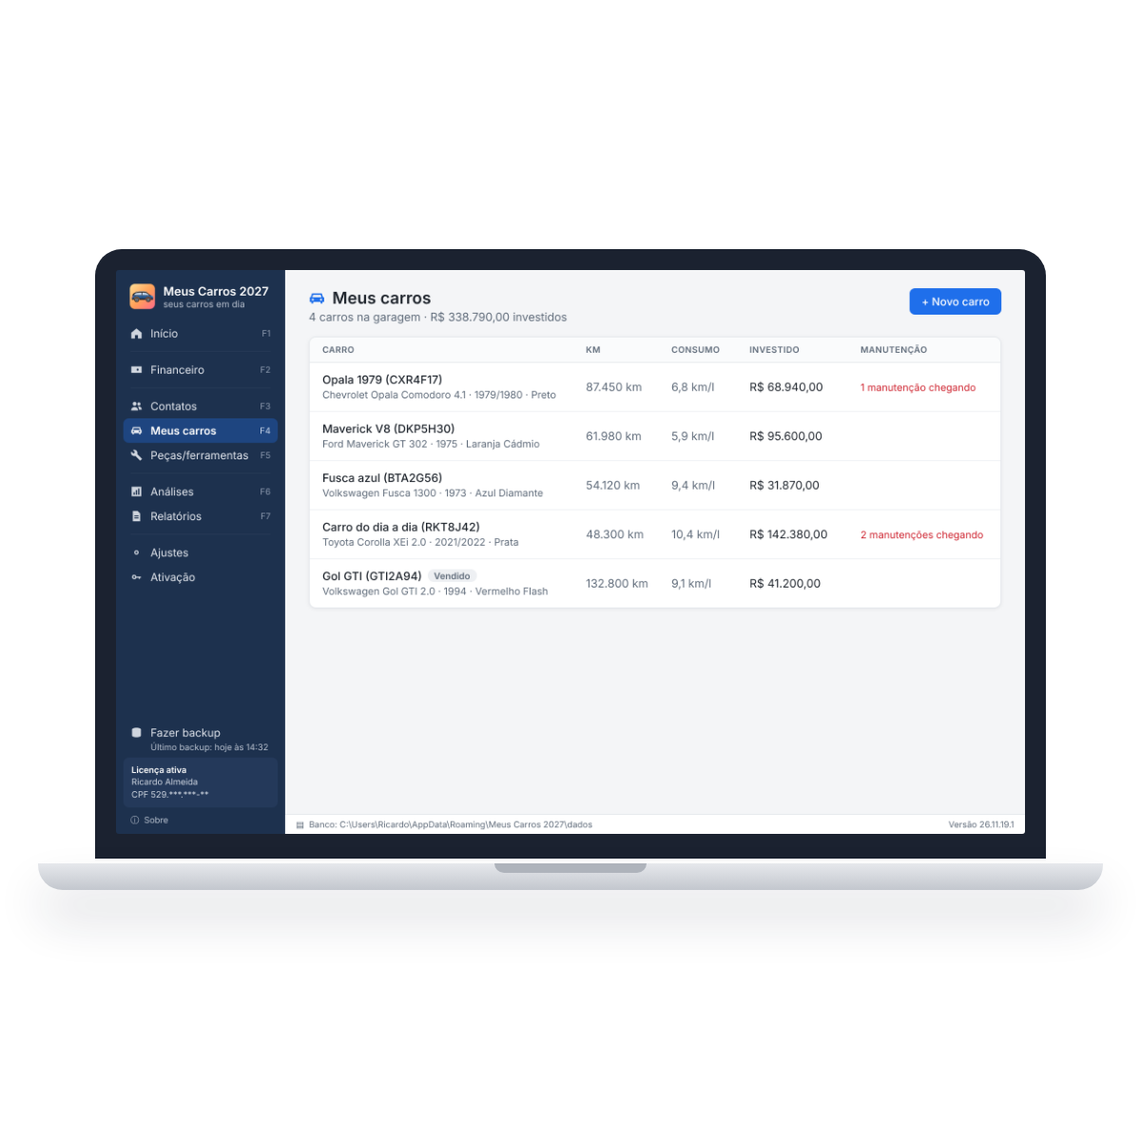
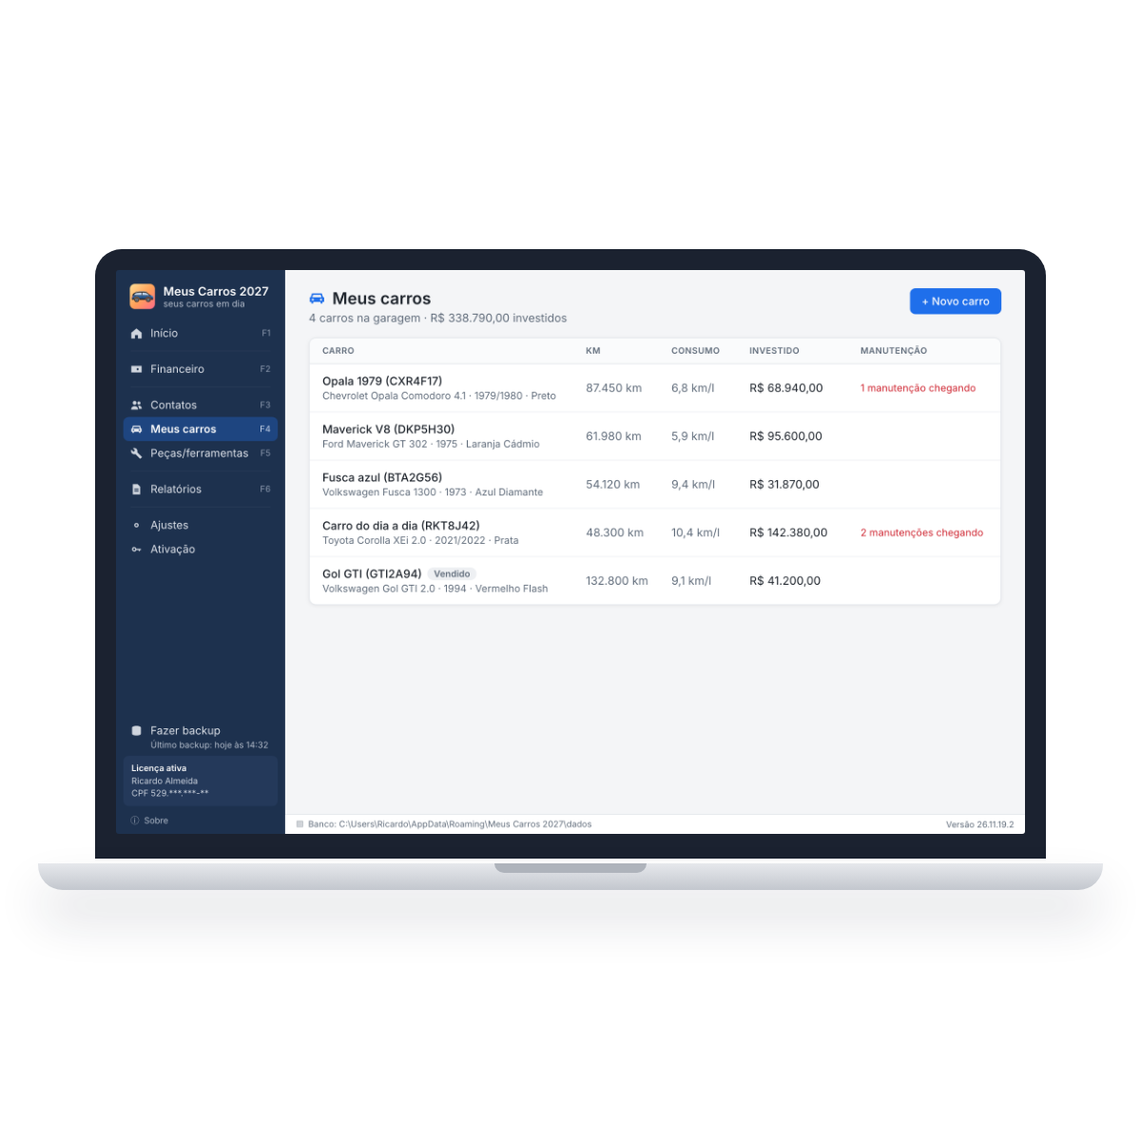
Meus Carros: site e anúncios com lembrete de IPVA, licenciamento, seguro e CNH, gasto por carro no Início, aba Documentos, demo com 1 carro e menu sem Análises

diff --git a/meuscarros/index.html b/meuscarros/index.html
@@ -7,14 +7,14 @@
 
     <title>Meus Carros 2027: manutenção e gastos do carro | peres.dev</title>
     <meta name="description"
-        content="Programa para Windows, Mac e Android para quem cuida dos próprios carros: aviso de troca de óleo pelo km ou data, consumo e quanto cada carro já custou.">
+        content="Programa para Windows, Mac e Android para quem cuida dos próprios carros: aviso de troca de óleo pelo km ou data, lembrete de IPVA, licenciamento, seguro e CNH, consumo e quanto cada carro gastou.">
     <meta name="author" content="Diego Peres">
     <meta name="theme-color" content="#0b0f14">
 
     <meta property="og:type" content="website">
     <meta property="og:title" content="Meus Carros 2027: seus carros em dia, num só lugar">
     <meta property="og:description"
-        content="Manutenções com aviso, abastecimentos e consumo, histórico com peças e quanto cada carro já custou. Para Windows, Mac e Android.">
+        content="Manutenções com aviso, lembrete de IPVA, licenciamento, seguro e CNH, abastecimentos e consumo, histórico com peças e quanto cada carro gastou. Para Windows, Mac e Android.">
     <meta property="og:url" content="https://www.peres.dev.br/meuscarros/">
     <meta property="og:image" content="https://www.peres.dev.br/meuscarros/img/compartilhar.png">
     <meta property="og:locale" content="pt_BR">
@@ -77,8 +77,8 @@
                     <span class="pill">Meus Carros 2027 · Para quem ama carro · Windows, Mac e Android</span>
                     <h1>Seus carros em dia <span class="accent">num só lugar</span></h1>
                     <p class="mw-hero__tagline">Anote abastecimentos, serviços, peças e documentos. O programa avisa a
-                        troca de óleo, correias e fluidos pelo km ou pela data, calcula o consumo e mostra quanto cada
-                        carro já custou.</p>
+                        troca de óleo, correias e fluidos pelo km ou pela data, lembra o IPVA, o licenciamento, o seguro e a
+                        CNH, calcula o consumo e mostra quanto cada carro gastou no mês e no ano.</p>
                     <div class="mw-hero__cta">
                         <a class="btn" href="#baixar">Baixar e testar grátis</a>
                         <a class="btn btn--comprar" data-comprar href="#como-funciona" hidden>Comprar no Mercado Livre</a>
@@ -104,8 +104,8 @@
                 <span>Tudo fica guardado no seu aparelho</span>
             </div>
             <div class="highlight">
-                <strong>Aviso de manutenção</strong>
-                <span>Pelo km ou pela data, o que vencer primeiro</span>
+                <strong>Aviso de manutenção e documentos</strong>
+                <span>Troca de óleo, IPVA, licenciamento, seguro e CNH</span>
             </div>
             <div class="highlight">
                 <strong>Sem mensalidade</strong>
@@ -149,6 +149,42 @@
                 <div class="window__bar" aria-hidden="true"><i></i><i></i><i></i></div>
                 <img src="img/manutencoes.png" width="1000" height="620" loading="lazy"
                     alt="Manutenções previstas de um Opala: troca de óleo vencendo em 320 km, filtro de ar, regulagem do carburador, velas, líquido de arrefecimento e fluido de freio">
+            </figure>
+        </section>
+
+        <section class="feature container">
+            <div class="feature__text">
+                <span class="eyebrow">Tela de início</span>
+                <h2>O que vence e quanto cada carro gastou, logo ao abrir</h2>
+                <ul class="checks">
+                    <li>Vencimentos chegando: IPVA, licenciamento, seguro e a sua CNH, 30 dias antes</li>
+                    <li>Manutenções dos carros que estão chegando, pelo km ou pela data</li>
+                    <li>Quanto cada carro gastou neste mês e no ano: combustível, serviços, documentos e seguro</li>
+                    <li>As contas a pagar dos próximos 7 dias, como as parcelas do financiamento</li>
+                </ul>
+            </div>
+            <figure class="window">
+                <div class="window__bar" aria-hidden="true"><i></i><i></i><i></i></div>
+                <img src="img/inicio.png" width="1000" height="620" loading="lazy"
+                    alt="Tela de início do Meus Carros com o gasto dos carros no mês, os vencimentos chegando (licenciamento, seguro e CNH), as manutenções chegando e quanto cada carro gastou no mês e no ano">
+            </figure>
+        </section>
+
+        <section class="feature feature--reverse container">
+            <div class="feature__text">
+                <span class="eyebrow">Documentos</span>
+                <h2>IPVA, licenciamento e seguro sem esquecer</h2>
+                <ul class="checks">
+                    <li>Cadastre o vencimento do IPVA, do licenciamento, do seguro e do que mais vencer (vistoria, rastreador, proteção veicular)</li>
+                    <li>O Início avisa 30 dias antes, e também a validade da sua CNH</li>
+                    <li>Pagou? Clique em <em>Paguei</em>: o gasto vai para o histórico do carro</li>
+                    <li>O que repete todo ano já passa o vencimento para o ano seguinte</li>
+                </ul>
+            </div>
+            <figure class="window">
+                <div class="window__bar" aria-hidden="true"><i></i><i></i><i></i></div>
+                <img src="img/documentos.png" width="1000" height="620" loading="lazy"
+                    alt="Aba Documentos de um Corolla com o seguro vencendo em 21 dias, IPVA, licenciamento e rastreador, e o botão Paguei para lançar o pagamento">
             </figure>
         </section>
 
@@ -217,8 +253,8 @@
                 </article>
                 <article class="card">
                     <h3>Financeiro</h3>
-                    <p>Tudo o que você anota entra no caixa, separado por carro. Contas a pagar e a receber, orçamento do
-                        mês e categorias para encontros, clube e eventos.</p>
+                    <p>Tudo o que você anota nos carros entra no caixa. Contas a pagar, como as parcelas e o seguro,
+                        e categorias para encontros, clube e eventos.</p>
                 </article>
                 <article class="card">
                     <h3>Ficha completa</h3>
@@ -226,9 +262,9 @@
                         livre para placa preta, motor original e restauração.</p>
                 </article>
                 <article class="card">
-                    <h3>Análises e relatórios</h3>
-                    <p>Gráficos de gastos mês a mês e para onde vai o dinheiro. Relatórios em PDF ou planilha que abre
-                        direto no Excel.</p>
+                    <h3>Relatórios</h3>
+                    <p>Relatórios em PDF ou planilha que abre direto no Excel, para guardar, imprimir ou mostrar na
+                        hora de vender o carro.</p>
                 </article>
                 <article class="card">
                     <h3>Contatos</h3>
@@ -325,7 +361,7 @@
                 <ol class="steps">
                     <li>
                         <strong>Baixe e teste</strong>
-                        <span>Instale no Windows, no Mac ou no celular Android e conheça o programa em modo de demonstração.</span>
+                        <span>Instale no Windows, no Mac ou no celular Android e teste com 1 carro completo, sem limite de tempo.</span>
                     </li>
                     <li>
                         <strong><a data-comprar-texto href="#como-funciona">Compre no Mercado Livre</a></strong>
@@ -344,7 +380,7 @@
         <!-- Baixar -->
         <section id="baixar" class="container baixar">
             <h2>Baixar o Meus Carros 2027</h2>
-            <p class="section-lead">Escolha o seu computador ou celular. Sem chave, o programa funciona em modo de demonstração.</p>
+            <p class="section-lead">Escolha o seu computador ou celular. Sem chave, o programa funciona em modo de demonstração, com 1 carro completo.</p>
             <p class="baixar__aviso">Os dados ficam só no seu computador ou celular e guardar a cópia de segurança num lugar seguro
                 é responsabilidade sua. <a href="#duvidas-dados">Saiba mais</a></p>
             <!--
@@ -430,8 +466,9 @@
             </details>
             <details>
                 <summary>Posso testar antes de comprar?</summary>
-                <p>Pode. Sem a chave de ativação, o programa funciona em modo de demonstração. Ao ativar, nada do que
-                    você cadastrou se perde.</p>
+                <p>Pode, sem limite de tempo. Sem a chave de ativação, o programa funciona em modo de demonstração
+                    com 1 carro completo: manutenções, documentos, abastecimentos, histórico e tudo o mais liberado
+                    nele. Ao ativar, você cadastra quantos carros quiser e nada do que já anotou se perde.</p>
             </details>
             <details>
                 <summary>Quantos carros posso cadastrar?</summary>

diff --git a/design/meuscarros/tela-inicio.html b/design/meuscarros/tela-inicio.html
@@ -1,0 +1,78 @@
+<!DOCTYPE html>
+<html lang="pt-BR">
+<head>
+<meta charset="UTF-8">
+<link rel="stylesheet" href="app.css">
+<style>
+  .h1 { font-size: 20px; font-weight: 600; }
+  .numeros { display: grid; grid-template-columns: 1fr 1fr; gap: 14px; margin-bottom: 14px; }
+  .numeros .rotulo { font-size: 9.5px; font-weight: 600; letter-spacing: .04em; margin-bottom: 4px; }
+  .numeros .valor { font-size: 20px; font-weight: 600; margin-bottom: 2px; }
+  .grade { display: grid; grid-template-columns: 1fr 1.08fr; gap: 14px; align-items: start; }
+  .coluna { display: grid; gap: 14px; }
+  .aviso { display: flex; justify-content: space-between; align-items: center; gap: 10px; padding: 6px 0; border-bottom: 1px solid #f0f2f5; }
+  .aviso:last-child { border-bottom: 0; padding-bottom: 0; }
+  .aviso small { display: block; font-size: 11px; color: var(--suave); margin-top: 1px; }
+  .aviso .dica { white-space: nowrap; font-weight: 500; }
+  .gastos .cab, .gastos .lin { grid-template-columns: 1fr 78px 92px; }
+  .gastos .lin { padding-block: 8px; }
+  .gastos .lin .medio { white-space: nowrap; overflow: hidden; text-overflow: ellipsis; min-width: 0; }
+  .topo-cartao { display: flex; justify-content: space-between; align-items: baseline; padding: 12px 14px 10px; }
+</style>
+</head>
+<body data-ativo="inicio">
+<div class="app">
+  <nav class="lateral"></nav>
+  <div class="principal">
+    <div class="conteudo">
+      <div class="topo">
+        <div>
+          <div class="h1">Boa tarde, Ricardo</div>
+          <div class="subtitulo">Novembro de 2026</div>
+        </div>
+      </div>
+
+      <div class="numeros">
+        <div class="cartao">
+          <div class="rotulo">GASTO COM OS CARROS NO MÊS</div>
+          <div class="valor">R$ 1.284,60</div>
+          <div class="dica">R$ 14.932,40 no ano · 4 carros</div>
+        </div>
+        <div class="cartao">
+          <div class="rotulo">A PAGAR (7 DIAS)</div>
+          <div class="valor">R$ 1.180,00</div>
+          <div class="dica">2 contas · parcela do Corolla e seguro</div>
+        </div>
+      </div>
+
+      <div class="grade">
+        <div class="coluna">
+          <div class="cartao">
+            <div class="h2">Vencimentos chegando</div>
+            <div class="aviso"><div><span class="medio">Licenciamento</span><small>Opala 1979 (CXR4F17)</small></div><span class="dica erro">vence em 12 dias</span></div>
+            <div class="aviso"><div><span class="medio">Seguro · Porto Seguro</span><small>Carro do dia a dia (RKT8J42)</small></div><span class="dica erro">vence em 21 dias</span></div>
+            <div class="aviso"><div><span class="medio">CNH</span><small>sua carteira de motorista</small></div><span class="dica erro">vence em 27 dias</span></div>
+          </div>
+          <div class="cartao">
+            <div class="h2">Manutenção dos carros chegando</div>
+            <div class="aviso"><div><span class="medio">Troca de óleo e filtro de óleo</span><small>Opala 1979 (CXR4F17)</small></div><span class="dica erro">faltam 320 km</span></div>
+            <div class="aviso"><div><span class="medio">Alinhamento e balanceamento</span><small>Carro do dia a dia (RKT8J42)</small></div><span class="dica erro">vence em 9 dias</span></div>
+          </div>
+        </div>
+        <div class="cartao tabela gastos">
+          <div class="topo-cartao"><div class="h2" style="margin:0">Quanto cada carro gastou em 2026</div><span class="link">Ver os carros ›</span></div>
+          <div class="cab"><span>CARRO</span><span class="num">ESTE MÊS</span><span class="num">NO ANO</span></div>
+          <div class="lin"><span class="medio">Opala 1979 (CXR4F17)</span><span class="num">R$ 412,30</span><span class="num forte">R$ 4.870,00</span></div>
+          <div class="lin"><span class="medio">Maverick V8 (DKP5H30)</span><span class="num">R$ 186,00</span><span class="num forte">R$ 3.215,50</span></div>
+          <div class="lin"><span class="medio">Fusca azul (BTA2G56)</span><span class="num suave">—</span><span class="num forte">R$ 1.148,90</span></div>
+          <div class="lin"><span class="medio">Carro do dia a dia (RKT8J42)</span><span class="num">R$ 686,30</span><span class="num forte">R$ 5.698,00</span></div>
+          <div class="dica" style="padding:8px 14px 12px">Combustível, serviços com as peças, documentos, seguro e outros gastos anotados em cada carro.</div>
+        </div>
+      </div>
+    </div>
+    <div class="status"></div>
+  </div>
+</div>
+<script src="lateral.js"></script>
+</body>
+</html>

diff --git a/design/meuscarros/tela-documentos.html b/design/meuscarros/tela-documentos.html
@@ -1,0 +1,57 @@
+<!DOCTYPE html>
+<html lang="pt-BR">
+<head>
+<meta charset="UTF-8">
+<link rel="stylesheet" href="app.css">
+<style>
+  .tabela .cab, .tabela .lin { grid-template-columns: 2.2fr 96px 1.1fr 104px 76px; }
+  .tabela .lin { padding-block: 10px; }
+  .tabela .lin.sel { background: #f2f7ff; }
+  .edicao { margin-top: 14px; }
+  .edicao .campos { grid-template-columns: 1.3fr 1.5fr 110px 120px; }
+  .botoes { display: flex; gap: 8px; align-items: center; margin-top: 12px; }
+  .botoes .dica { margin-left: 4px; }
+</style>
+</head>
+<body data-ativo="carros">
+<div class="app">
+  <nav class="lateral"></nav>
+  <div class="principal">
+    <div class="conteudo">
+      <div class="topo">
+        <span class="btn">‹ Voltar</span>
+        <div>
+          <div class="titulo"><svg viewBox="0 0 16 16"><path d="M3.2 3.2 2 7H1v4.5h1.5V13h2v-1.5h7V13h2v-1.5H15V7h-1l-1.2-3.8zM4.3 4.7h7.4l.8 2.3h-9zM4 8.3a1 1 0 1 1 0 2 1 1 0 0 1 0-2zm8 0a1 1 0 1 1 0 2 1 1 0 0 1 0-2z"/></svg>Carro do dia a dia (RKT8J42)</div>
+          <div class="subtitulo">Toyota Corolla XEi 2.0 · 2021/2022 · Prata</div>
+        </div>
+        <div class="direita"><span class="btn primario">+ Vencimento</span></div>
+      </div>
+      <div class="segmentado"><span>Resumo</span><span>Manutenções</span><span>Histórico</span><span>Abastecimentos</span><span class="ativo">Documentos</span><span>Financiamento</span><span>Dados do carro</span></div>
+
+      <div class="cartao tabela">
+        <div style="padding:12px 14px 10px">
+          <div class="h2" style="margin-bottom:4px">Vencimentos do carro</div>
+          <div class="dica">IPVA, licenciamento, seguro e o que mais vencer: o Início avisa 30 dias antes.</div>
+        </div>
+        <div class="cab"><span>O QUE É</span><span>VENCE EM</span><span>AVISO</span><span class="num">VALOR</span><span>REPETE</span></div>
+        <div class="lin sel"><span class="medio">Seguro · Porto Seguro</span><span>10/12/2026</span><span class="dica erro medio">vence em 21 dias</span><span class="num">R$ 3.480,00</span><span class="suave">todo ano</span></div>
+        <div class="lin"><span class="medio">IPVA · cota única</span><span>15/01/2027</span><span></span><span class="num">R$ 4.215,60</span><span class="suave">todo ano</span></div>
+        <div class="lin"><span class="medio">Licenciamento</span><span>31/07/2027</span><span></span><span class="num">R$ 160,22</span><span class="suave">todo ano</span></div>
+        <div class="lin"><span class="medio">Rastreador</span><span>05/03/2027</span><span></span><span class="num">R$ 590,00</span><span class="suave">todo ano</span></div>
+      </div>
+
+      <div class="cartao edicao">
+        <div class="h2">Seguro · Porto Seguro</div>
+        <div class="campos">
+          <div><div class="rotulo">Pago em *</div><div class="caixa">19/11/2026</div></div>
+          <div><div class="rotulo">Valor pago (R$)</div><div class="caixa dir">3.480,00</div></div>
+        </div>
+        <div class="botoes"><span class="btn primario">Paguei</span><span class="btn">Cancelar</span><span class="dica">O valor entra no histórico do carro e o vencimento passa para o ano que vem.</span></div>
+      </div>
+    </div>
+    <div class="status"></div>
+  </div>
+</div>
+<script src="lateral.js"></script>
+</body>
+</html>

diff --git a/design/meuscarros/lateral.js b/design/meuscarros/lateral.js
@@ -1,13 +1,13 @@
 // Menu lateral e barra de status do Meus Carros 2027, iguais em todas as telas. Uso: <body data-ativo="carros">.
 // Itens do menu do ramo "Meus carros" (OS, equipamentos, vendas, produtos e MEI desligados), na ordem do programa.
 // Peças/ferramentas (F5) vem logo depois de Meus carros, desde a versão de 18/11/2026.
+// Sem Análises desde 19/11/2026 (o Meus Carros não tem finanças de empresa): Relatórios é F6.
 (function () {
   const ic = {
     inicio: 'M8 1.5 1 7.2V15h5v-4.5h4V15h5V7.2z',
     financeiro: 'M1 3.5h14v9H1zM3 6h4v1.6H3zM11 8a1.4 1.4 0 1 0 0 .01z',
     contatos: 'M5.5 7.5a2.6 2.6 0 1 0 0-5.2 2.6 2.6 0 0 0 0 5.2zM0.8 14c0-2.8 2.1-4.6 4.7-4.6s4.7 1.8 4.7 4.6zM11.3 7.3a2.1 2.1 0 1 0 0-4.2 2.1 2.1 0 0 0 0 4.2zM11.2 8.8c2.3 0 4 1.5 4 4.1h-3.8c0-1.7-.5-3-1.5-4 .4-.1.8-.1 1.3-.1z',
     carros: 'M3.2 3.2 2 7H1v4.5h1.5V13h2v-1.5h7V13h2v-1.5H15V7h-1l-1.2-3.8zM4.3 4.7h7.4l.8 2.3h-9zM4 8.3a1 1 0 1 1 0 2 1 1 0 0 1 0-2zm8 0a1 1 0 1 1 0 2 1 1 0 0 1 0-2z',
-    analises: 'M1.5 1.5h13v13h-13zM4 9v3.5h1.8V9zM7.1 6v6.5h1.8V6zm3.1-2v8.5H12V4z',
     relatorios: 'M3 1h6.5L13 4.5V15H3zM5.2 7.3v1.3h5.6V7.3zm0 2.6v1.3h5.6V9.9z',
     ajustes: 'M8 5a3 3 0 1 0 0 6 3 3 0 0 0 0-6zm0 1.6a1.4 1.4 0 1 1 0 2.8 1.4 1.4 0 0 1 0-2.8z',
     ativacao: 'M5 5a3 3 0 1 0 2.8 4H11v1.6h1.6V9H14V7.4H7.8A3 3 0 0 0 5 5zm0 1.6a1.4 1.4 0 1 1 0 2.8 1.4 1.4 0 0 1 0-2.8z',
@@ -28,8 +28,7 @@
     ${item('carros', 'Meus carros', 'F4')}
     ${item('ferramenta', 'Peças/ferramentas', 'F5')}
     <div class="sep"></div>
-    ${item('analises', 'Análises', 'F6')}
-    ${item('relatorios', 'Relatórios', 'F7')}
+    ${item('relatorios', 'Relatórios', 'F6')}
     <div class="sep"></div>
     ${item('ajustes', 'Ajustes')}
     ${item('ativacao', 'Ativação')}
@@ -39,5 +38,5 @@
     <div class="sobre">ⓘ&nbsp; Sobre</div>`;
 
   document.querySelector('.status').innerHTML =
-    '<span>▤&nbsp; Banco: C:\\Users\\Ricardo\\AppData\\Roaming\\Meus Carros 2027\\dados</span><span>Versão 26.11.19.1</span>';
+    '<span>▤&nbsp; Banco: C:\\Users\\Ricardo\\AppData\\Roaming\\Meus Carros 2027\\dados</span><span>Versão 26.11.19.2</span>';
 })();

diff --git a/design/meuscarros/tela-resumo.html b/design/meuscarros/tela-resumo.html
@@ -23,7 +23,7 @@
           <div class="subtitulo">Chevrolet Opala Comodoro 4.1 · 1979/1980 · Preto</div>
         </div>
       </div>
-      <div class="segmentado"><span class="ativo">Resumo</span><span>Manutenções</span><span>Histórico</span><span>Abastecimentos</span><span>Financiamento</span><span>Dados do carro</span></div>
+      <div class="segmentado"><span class="ativo">Resumo</span><span>Manutenções</span><span>Histórico</span><span>Abastecimentos</span><span>Documentos</span><span>Financiamento</span><span>Dados do carro</span></div>
 
       <div class="grade">
         <div class="cartao">
@@ -37,7 +37,7 @@
             <div><span class="suave">Combustível</span><span>R$ 3.210,00</span></div>
             <div class="total"><span>Total investido</span><span>R$ 68.940,00</span></div>
           </div>
-          <p class="dica" style="margin:10px 0 0">Os gastos anotados aqui também entram no caixa do Financeiro, na área do carro.</p>
+          <p class="dica" style="margin:10px 0 0">Os gastos anotados aqui também entram no caixa do Financeiro.</p>
         </div>
         <div class="coluna">
           <div class="cartao">

diff --git a/design/meuscarros/anuncio-02-visao-geral.html b/design/meuscarros/anuncio-02-visao-geral.html
@@ -8,9 +8,9 @@
   <div class="pagina">
     <div class="marca"><img src="icone-marca.png" alt="">Meus Carros 2027</div>
     <h1>Seus carros em dia <em>num só lugar</em></h1>
-    <p class="sub">Manutenções, abastecimentos, histórico e quanto<br>cada carro já custou, num programa simples.</p>
+    <p class="sub">Manutenções, vencimentos, abastecimentos e quanto<br>cada carro gastou, num programa simples.</p>
   </div>
-  <div class="print" style="left:80px; top:560px; width:1040px"><img src="telas/resumo.png" alt=""></div>
+  <div class="print" style="left:80px; top:560px; width:1040px"><img src="telas/inicio.png" alt=""></div>
   <div class="faixa">No computador e no celular: <b>Windows, Mac e Android</b></div>
 </body>
 </html>

diff --git a/design/meuscarros/tela-abastecimentos.html b/design/meuscarros/tela-abastecimentos.html
@@ -20,7 +20,7 @@
           <div class="subtitulo">Toyota Corolla XEi 2.0 · 2021/2022 · Prata</div>
         </div>
       </div>
-      <div class="segmentado"><span>Resumo</span><span>Manutenções</span><span>Histórico</span><span class="ativo">Abastecimentos</span><span>Financiamento</span><span>Dados do carro</span></div>
+      <div class="segmentado"><span>Resumo</span><span>Manutenções</span><span>Histórico</span><span class="ativo">Abastecimentos</span><span>Documentos</span><span>Financiamento</span><span>Dados do carro</span></div>
 
       <div class="acima">
         <span class="dica">O consumo é calculado de um tanque cheio até o outro (com o km nos dois).</span>

diff --git a/design/meuscarros/tela-manutencoes.html b/design/meuscarros/tela-manutencoes.html
@@ -25,7 +25,7 @@
         </div>
         <div class="direita"><span class="btn primario">Salvar manutenções&nbsp; (Ctrl+S)</span></div>
       </div>
-      <div class="segmentado"><span>Resumo</span><span class="ativo">Manutenções</span><span>Histórico</span><span>Abastecimentos</span><span>Financiamento</span><span>Dados do carro</span></div>
+      <div class="segmentado"><span>Resumo</span><span class="ativo">Manutenções</span><span>Histórico</span><span>Abastecimentos</span><span>Documentos</span><span>Financiamento</span><span>Dados do carro</span></div>
 
       <div class="cartao tabela">
         <div style="padding:12px 14px 10px">

diff --git a/design/meuscarros/tela-historico.html b/design/meuscarros/tela-historico.html
@@ -25,7 +25,7 @@
           <div class="subtitulo">Chevrolet Opala Comodoro 4.1 · 1979/1980 · Preto</div>
         </div>
       </div>
-      <div class="segmentado"><span>Resumo</span><span>Manutenções</span><span class="ativo">Histórico</span><span>Abastecimentos</span><span>Financiamento</span><span>Dados do carro</span></div>
+      <div class="segmentado"><span>Resumo</span><span>Manutenções</span><span class="ativo">Histórico</span><span>Abastecimentos</span><span>Documentos</span><span>Financiamento</span><span>Dados do carro</span></div>
 
       <div class="cartao">
         <div class="h2">Serviço ou revisão</div>

diff --git a/design/meuscarros/anuncio-05-vencimentos.html b/design/meuscarros/anuncio-05-vencimentos.html
@@ -1,0 +1,18 @@
+<!DOCTYPE html>
+<html lang="pt-BR">
+<head>
+<meta charset="UTF-8">
+<link rel="stylesheet" href="../comum/anuncio.css">
+</head>
+<body>
+  <div class="pagina">
+    <h1>Lembrete de IPVA, licenciamento, <em>seguro e CNH</em></h1>
+    <ul class="checks">
+      <li>Aviso na tela de início 30 dias antes de vencer</li>
+      <li>Pagou? Um clique e o gasto vai para o histórico do carro</li>
+      <li>O vencimento passa sozinho para o ano seguinte</li>
+    </ul>
+  </div>
+  <div class="print" style="left:180px; top:640px; width:1060px"><img src="telas/documentos.png" alt=""></div>
+</body>
+</html>

diff --git a/index.html b/index.html
@@ -119,6 +119,7 @@
                         financiamento e quanto cada carro já custou. Do carro do dia a dia ao antigo de coleção.</p>
                     <ul class="produto__lista">
                         <li>Aviso de troca de óleo, filtros e revisões</li>
+                        <li>Lembrete de IPVA, licenciamento, seguro e CNH</li>
                         <li>Consumo de cada tanque e custo por km</li>
                         <li>Histórico de serviços com peças e oficina</li>
                     </ul>

diff --git a/design/meuscarros/anuncio-09-quanto-custou.html b/design/meuscarros/anuncio-09-quanto-custou.html
@@ -7,7 +7,7 @@
 <body>
   <div class="pagina">
     <h1>Quanto cada carro <em class="junto">já custou</em></h1>
-    <p class="sub">Tudo o que você anota entra na conta, sem planilha.</p>
+    <p class="sub">No mês, no ano e desde a compra, sem planilha.</p>
     <div class="cartoes" style="margin-top:40px">
       <div>Compra e venda</div>
       <div>Serviços e peças</div>
